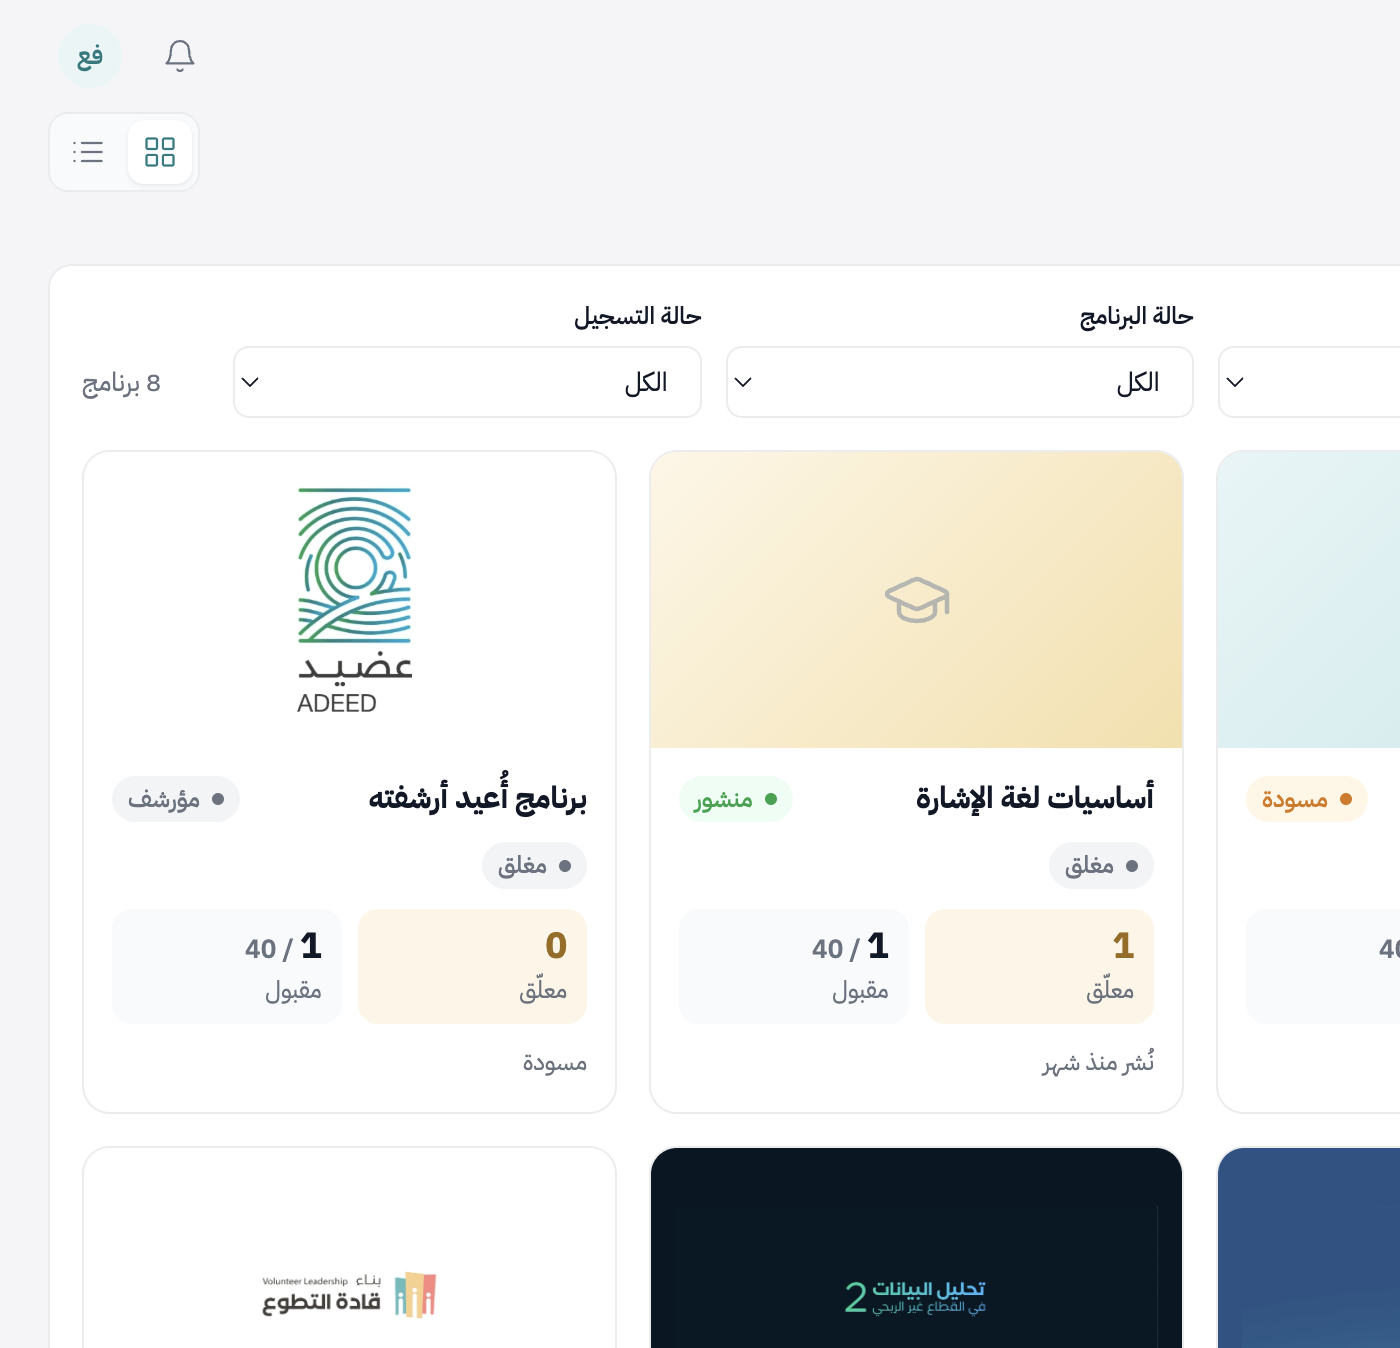
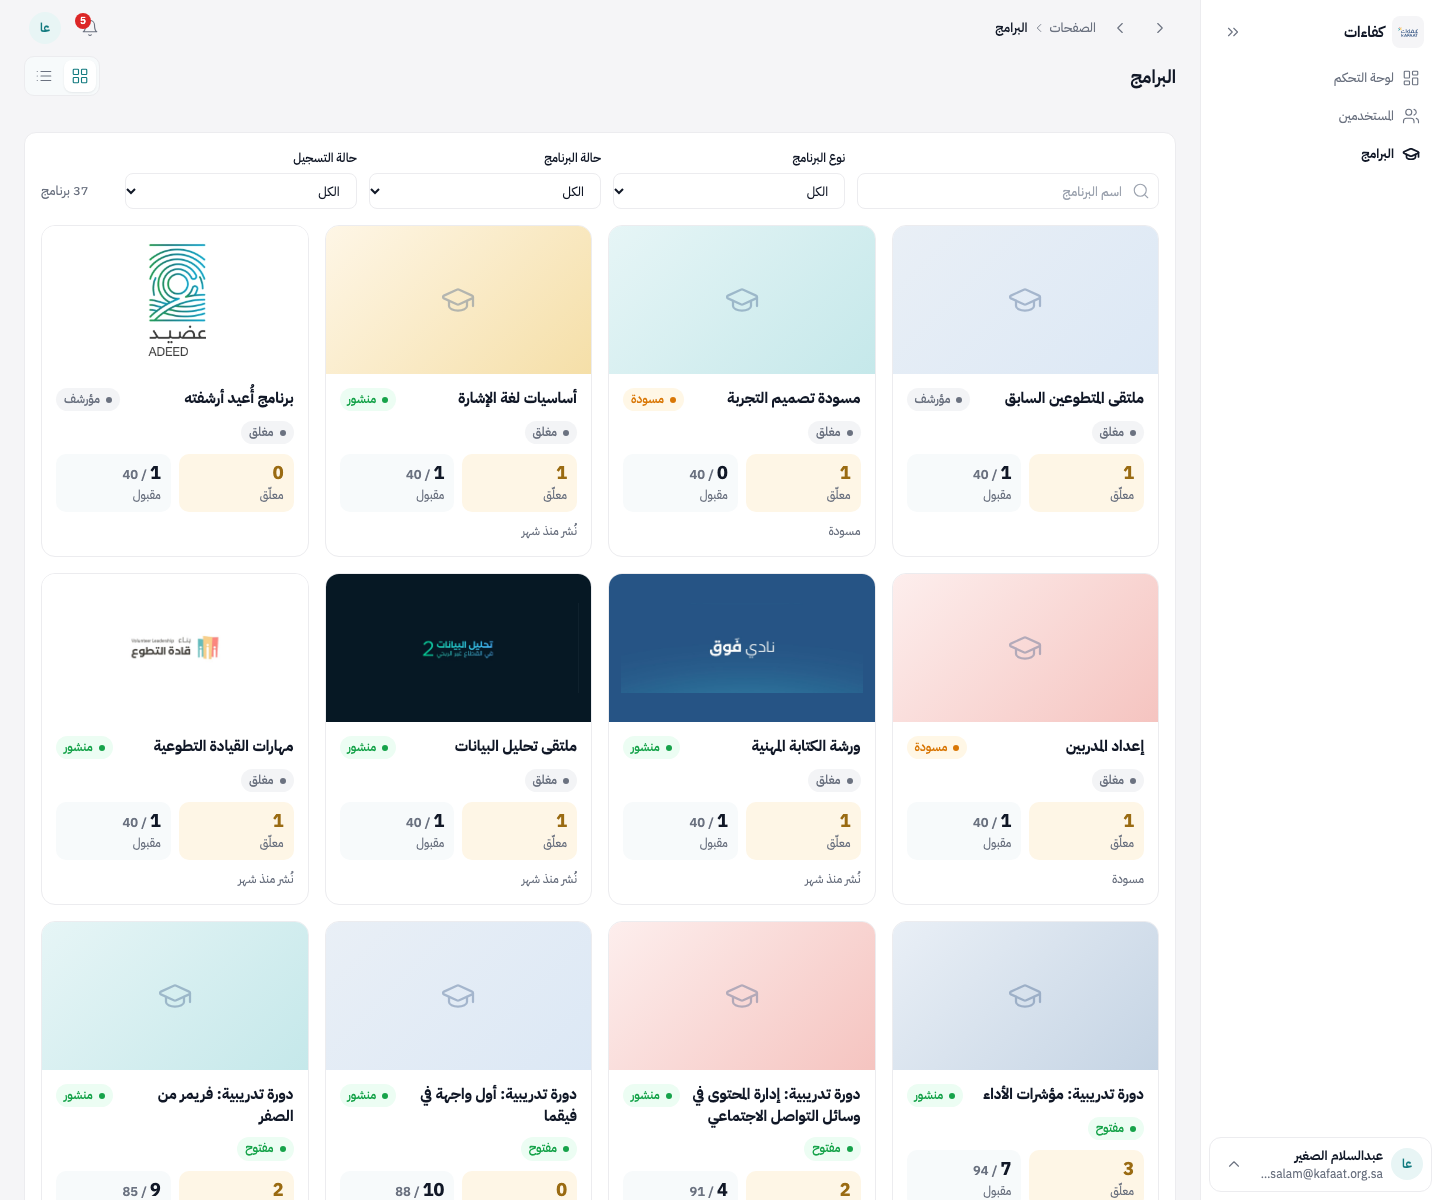
Show a future draft publish date as scheduled, and omit the publication line on archives that were never published.

diff --git a/resources/css/staff-ui.css b/resources/css/staff-ui.css
@@ -2029,10 +2029,18 @@ a.sui-menu-item {
     display: flex;
     flex-direction: column;
     gap: var(--sui-space-4);
+    min-width: 0;
+    max-width: 100%;
 }
 
 .sui-programs-filters {
-    grid-template-columns: minmax(160px, 1.3fr) repeat(3, minmax(120px, 1fr)) auto auto;
+    grid-template-columns: minmax(0, 1.3fr) repeat(3, minmax(0, 1fr)) auto auto;
+    min-width: 0;
+    max-width: 100%;
+}
+
+.sui-programs-filters .sui-field {
+    min-width: 0;
 }
 
 .sui-programs-empty {
@@ -2197,10 +2205,26 @@ a.sui-menu-item {
     color: var(--sui-text-secondary);
 }
 
+.sui-programs-table-wrap {
+    min-width: 0;
+    max-width: 100%;
+}
+
 .sui-programs-table-wrap .sui-table-wrap {
     border: 1px solid var(--sui-border);
     border-radius: 12px;
-    overflow: hidden;
+    max-width: 100%;
+    overflow-x: auto;
+}
+
+.sui-programs-table-wrap .sui-table {
+    table-layout: fixed;
+}
+
+.sui-programs-table-wrap .sui-table th,
+.sui-programs-table-wrap .sui-table td {
+    white-space: normal;
+    overflow-wrap: anywhere;
 }
 
 .sui-program-row {

diff --git a/tests/Feature/StaffUiProgramsListTest.php b/tests/Feature/StaffUiProgramsListTest.php
@@ -235,9 +235,14 @@ class StaffUiProgramsListTest extends TestCase
             'status' => ProgramStatus::Draft,
             'published_at' => null,
         ]);
+        $pastDraft = $this->makeProgram([
+            'title' => 'مسودة بتاريخ ماض',
+            'status' => ProgramStatus::Draft,
+            'published_at' => now()->subDay(),
+        ]);
         $scheduled = $this->makeProgram([
             'title' => 'مجدول للنشر',
-            'status' => ProgramStatus::Published,
+            'status' => ProgramStatus::Draft,
             'published_at' => now()->addDays(5),
         ]);
         $published = $this->makeProgram([
@@ -245,19 +250,66 @@ class StaffUiProgramsListTest extends TestCase
             'status' => ProgramStatus::Published,
             'published_at' => now()->subDays(2),
         ]);
+        $archivedPublished = $this->makeProgram([
+            'title' => 'مؤرشف كان منشورا',
+            'status' => ProgramStatus::Archived,
+            'published_at' => now()->subDays(10),
+        ]);
+        $archivedUnpublished = $this->makeProgram([
+            'title' => 'مؤرشف بلا نشر',
+            'status' => ProgramStatus::Archived,
+            'published_at' => null,
+        ]);
 
         $this->assertSame('مسودة', $status->publicationLabel($draft));
-        $this->assertStringContainsString('مجدول للنشر في', $status->publicationLabel($scheduled));
+        $this->assertSame('مسودة', $status->publicationLabel($pastDraft));
+        $scheduledLabel = $status->publicationLabel($scheduled);
+        $this->assertStringStartsWith('مجدول للنشر في ', $scheduledLabel);
+        $this->assertStringContainsString(ar_date($scheduled->published_at, 'd MMM y'), $scheduledLabel);
         $this->assertStringStartsWith('نُشر', $status->publicationLabel($published));
         $this->assertStringContainsString('منذ', $status->publicationLabel($published));
+        $this->assertStringStartsWith('نُشر', $status->publicationLabel($archivedPublished));
+        $this->assertStringContainsString('منذ', $status->publicationLabel($archivedPublished));
+        $this->assertSame('', $status->publicationLabel($archivedUnpublished));
 
-        $this->actingAsOtpVerified($viewer)
+        $page = $this->actingAsOtpVerified($viewer)
             ->get(route('staff-ui.programs.index'))
             ->assertOk()
             ->assertSee('مسودة ظاهرة')
             ->assertSee('مسودة')
+            ->assertSee('مجدول للنشر في')
+            ->assertSee('منشور منذ يومين')
+            ->assertSee('مؤرشف كان منشورا')
+            ->assertSee('مؤرشف بلا نشر');
+
+        $html = $page->getContent();
+        $this->assertMatchesRegularExpression('/<option value="draft"[^>]*>\s*مسودة\s*<\/option>/u', $html);
+        $this->assertMatchesRegularExpression('/<option value="published"[^>]*>\s*منشور\s*<\/option>/u', $html);
+        $this->assertMatchesRegularExpression('/<option value="archived"[^>]*>\s*مؤرشف\s*<\/option>/u', $html);
+        $this->assertStringNotContainsString('<option value="scheduled"', $html);
+        $this->assertDoesNotMatchRegularExpression('/<option[^>]*>\s*مجدول/u', $html);
+
+        $unpublishedCard = $this->programCardHtml($html, 'مؤرشف بلا نشر');
+        $this->assertStringNotContainsString('sui-program-card__published', $unpublishedCard);
+        $this->assertStringNotContainsString('مسودة', $unpublishedCard);
+
+        $archivedCard = $this->programCardHtml($html, 'مؤرشف كان منشورا');
+        $this->assertStringContainsString('نُشر', $archivedCard);
+        $this->assertStringContainsString('منذ', $archivedCard);
+        $this->assertStringNotContainsString('مسودة', $archivedCard);
+
+        $this->actingAsOtpVerified($viewer)
+            ->get(route('staff-ui.programs.index', ['status' => ProgramStatus::Draft->value]))
+            ->assertOk()
             ->assertSee('مجدول للنشر')
-            ->assertSee('منشور منذ يومين');
+            ->assertSee('مسودة ظاهرة')
+            ->assertDontSee('منشور منذ يومين');
+
+        $this->actingAsOtpVerified($viewer)
+            ->get(route('staff-ui.programs.index', ['status' => ProgramStatus::Published->value]))
+            ->assertOk()
+            ->assertSee('منشور منذ يومين')
+            ->assertDontSee('مجدول للنشر');
     }
 
     public function test_empty_catalog_message_without_filters(): void
@@ -327,6 +379,14 @@ class StaffUiProgramsListTest extends TestCase
         DB::disableQueryLog();
 
         return $count;
+    }
+
+    private function programCardHtml(string $html, string $title): string
+    {
+        $pattern = '/<a class="sui-program-card"[\s\S]*?'.preg_quote($title, '/').'[\s\S]*?<\/a>/u';
+        $this->assertSame(1, preg_match($pattern, $html, $matches), 'Missing program card for '.$title);
+
+        return $matches[0];
     }
 
     /**

diff --git a/resources/views/staff-ui/programs/index.blade.php b/resources/views/staff-ui/programs/index.blade.php
@@ -50,6 +50,7 @@
                         $pending = $programStatus->pendingCount($program);
                         $approved = $programStatus->approvedCount($program);
                         $capacity = $program->capacity;
+                        $publication = $programStatus->publicationLabel($program);
                     @endphp
                     <a class="sui-program-card" href="{{ route('staff-ui.programs.show', $program) }}">
                         <x-staff-ui.program-cover :program="$program" :index="$index" />
@@ -80,7 +81,9 @@
                                     </div>
                                 </div>
                             @endif
-                            <p class="sui-program-card__published">{{ $programStatus->publicationLabel($program) }}</p>
+                            @if ($publication !== '')
+                                <p class="sui-program-card__published">{{ $publication }}</p>
+                            @endif
                         </div>
                     </a>
                 @endforeach
@@ -106,6 +109,7 @@
                                     $pending = $programStatus->pendingCount($program);
                                     $approved = $programStatus->approvedCount($program);
                                     $capacity = $program->capacity;
+                                    $publication = $programStatus->publicationLabel($program);
                                 @endphp
                                 <tr class="sui-program-row" data-href="{{ route('staff-ui.programs.show', $program) }}" tabindex="0" role="link">
                                     <td data-label="البرنامج">
@@ -143,7 +147,7 @@
                                             {{ en_num($approved) }}
                                         @endif
                                     </td>
-                                    <td data-label="النشر">{{ $programStatus->publicationLabel($program) }}</td>
+                                    <td data-label="النشر">@if ($publication !== ''){{ $publication }}@endif</td>
                                 </tr>
                             @endforeach
                         </tbody>

diff --git a/app/Services/StaffUi/StaffProgramStatus.php b/app/Services/StaffUi/StaffProgramStatus.php
@@ -31,11 +31,13 @@ use Illuminate\Support\Carbon;
  * registration window.
  *
  * Publication line:
- * - Draft → «مسودة»
- * - Published with published_at in the future → «مجدول للنشر في {date}»
+ * - Draft with published_at in the future → «مجدول للنشر في {date}»
+ *   (PublishScheduledTrainingCommand publishes Draft rows once published_at is due.)
+ * - Draft with no published_at, or a past published_at → «مسودة»
  * - Published (live) with published_at → «نُشر منذ {relative}»
  * - Published with null published_at → «نُشر منذ …» falls back to created_at relative
- * - Archived → badge handles status; line uses published_at relative when present, else «مسودة»
+ * - Archived with published_at → «نُشر منذ {relative}»
+ * - Archived with no published_at → empty string (the view omits the line)
  */
 final class StaffProgramStatus
 {
@@ -96,17 +98,19 @@ final class StaffProgramStatus
         $status = $this->programStatus($program);
 
         if ($status === ProgramStatus::Draft) {
+            if ($program->published_at !== null && $program->published_at->gt($now)) {
+                return 'مجدول للنشر في '.ar_date($program->published_at, 'd MMM y');
+            }
+
             return 'مسودة';
         }
 
-        if ($status === ProgramStatus::Published
-            && $program->published_at !== null
-            && $program->published_at->gt($now)) {
-            return 'مجدول للنشر في '.ar_date($program->published_at, 'd MMM y');
-        }
+        if ($status === ProgramStatus::Archived) {
+            if ($program->published_at === null) {
+                return '';
+            }
 
-        if ($status === ProgramStatus::Archived && $program->published_at === null) {
-            return 'مسودة';
+            return 'نُشر '.ar_diff_for_humans($program->published_at);
         }
 
         $anchor = $program->published_at ?? $program->created_at;
